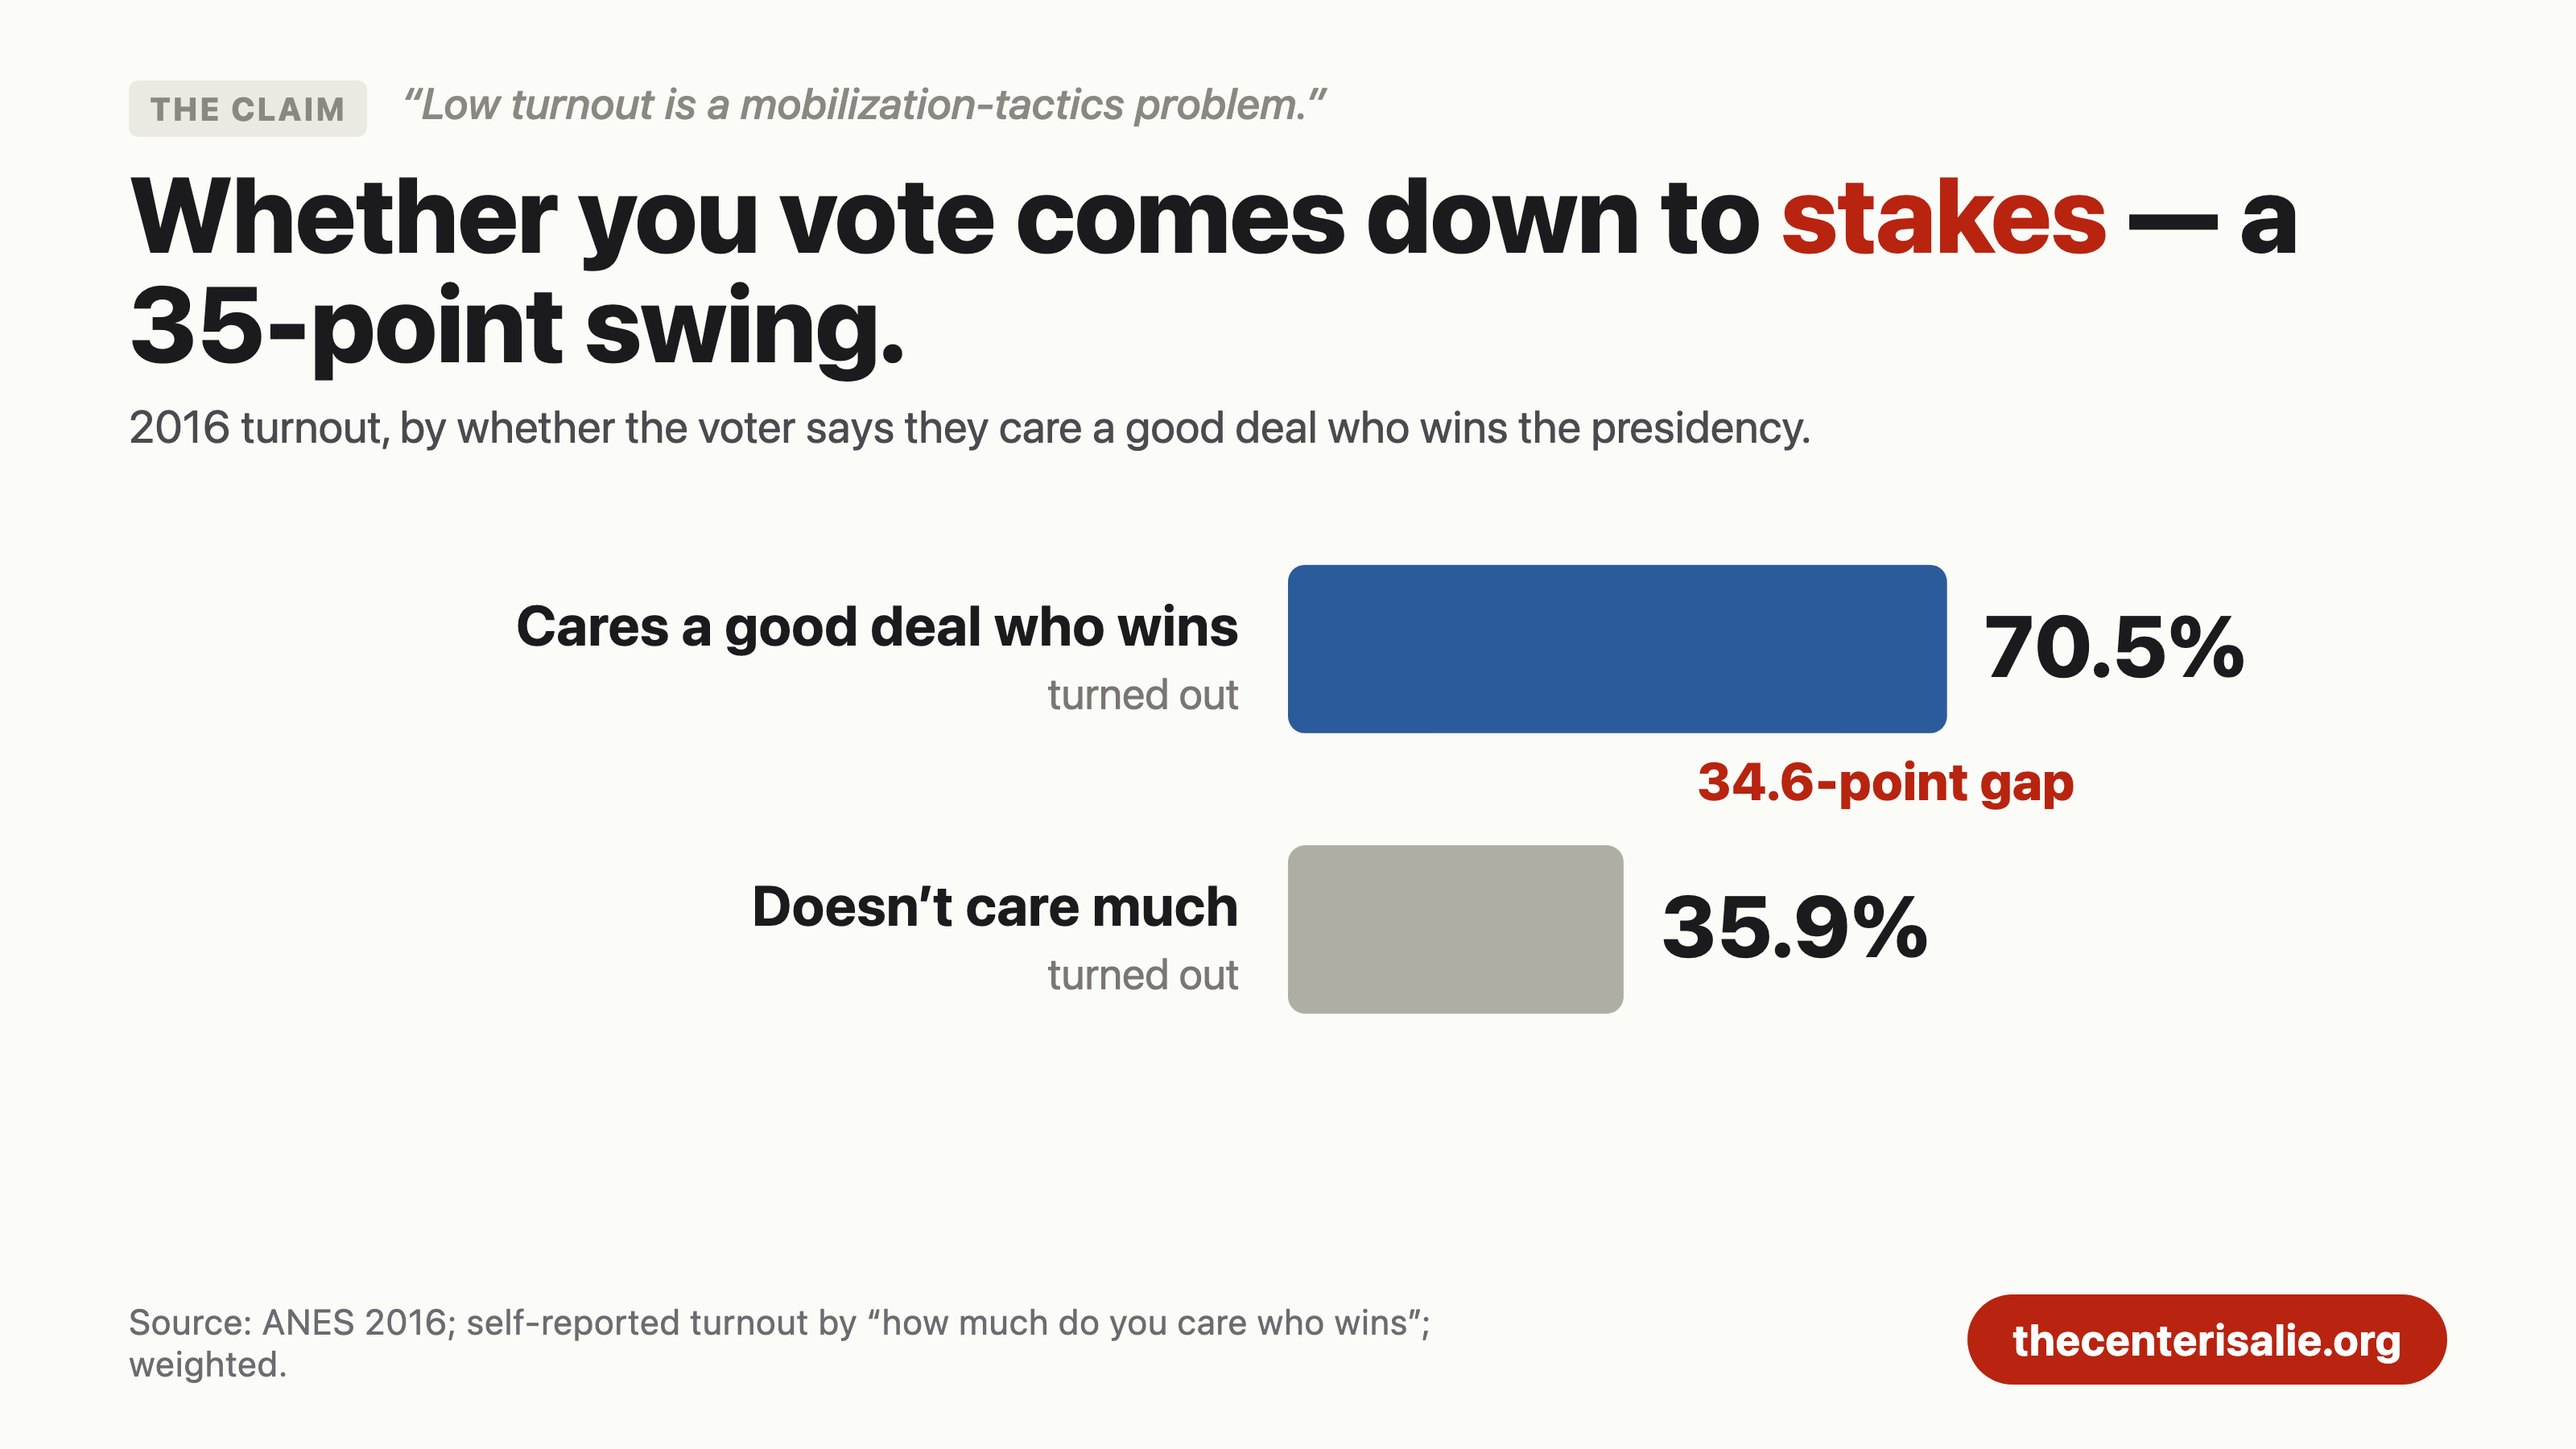
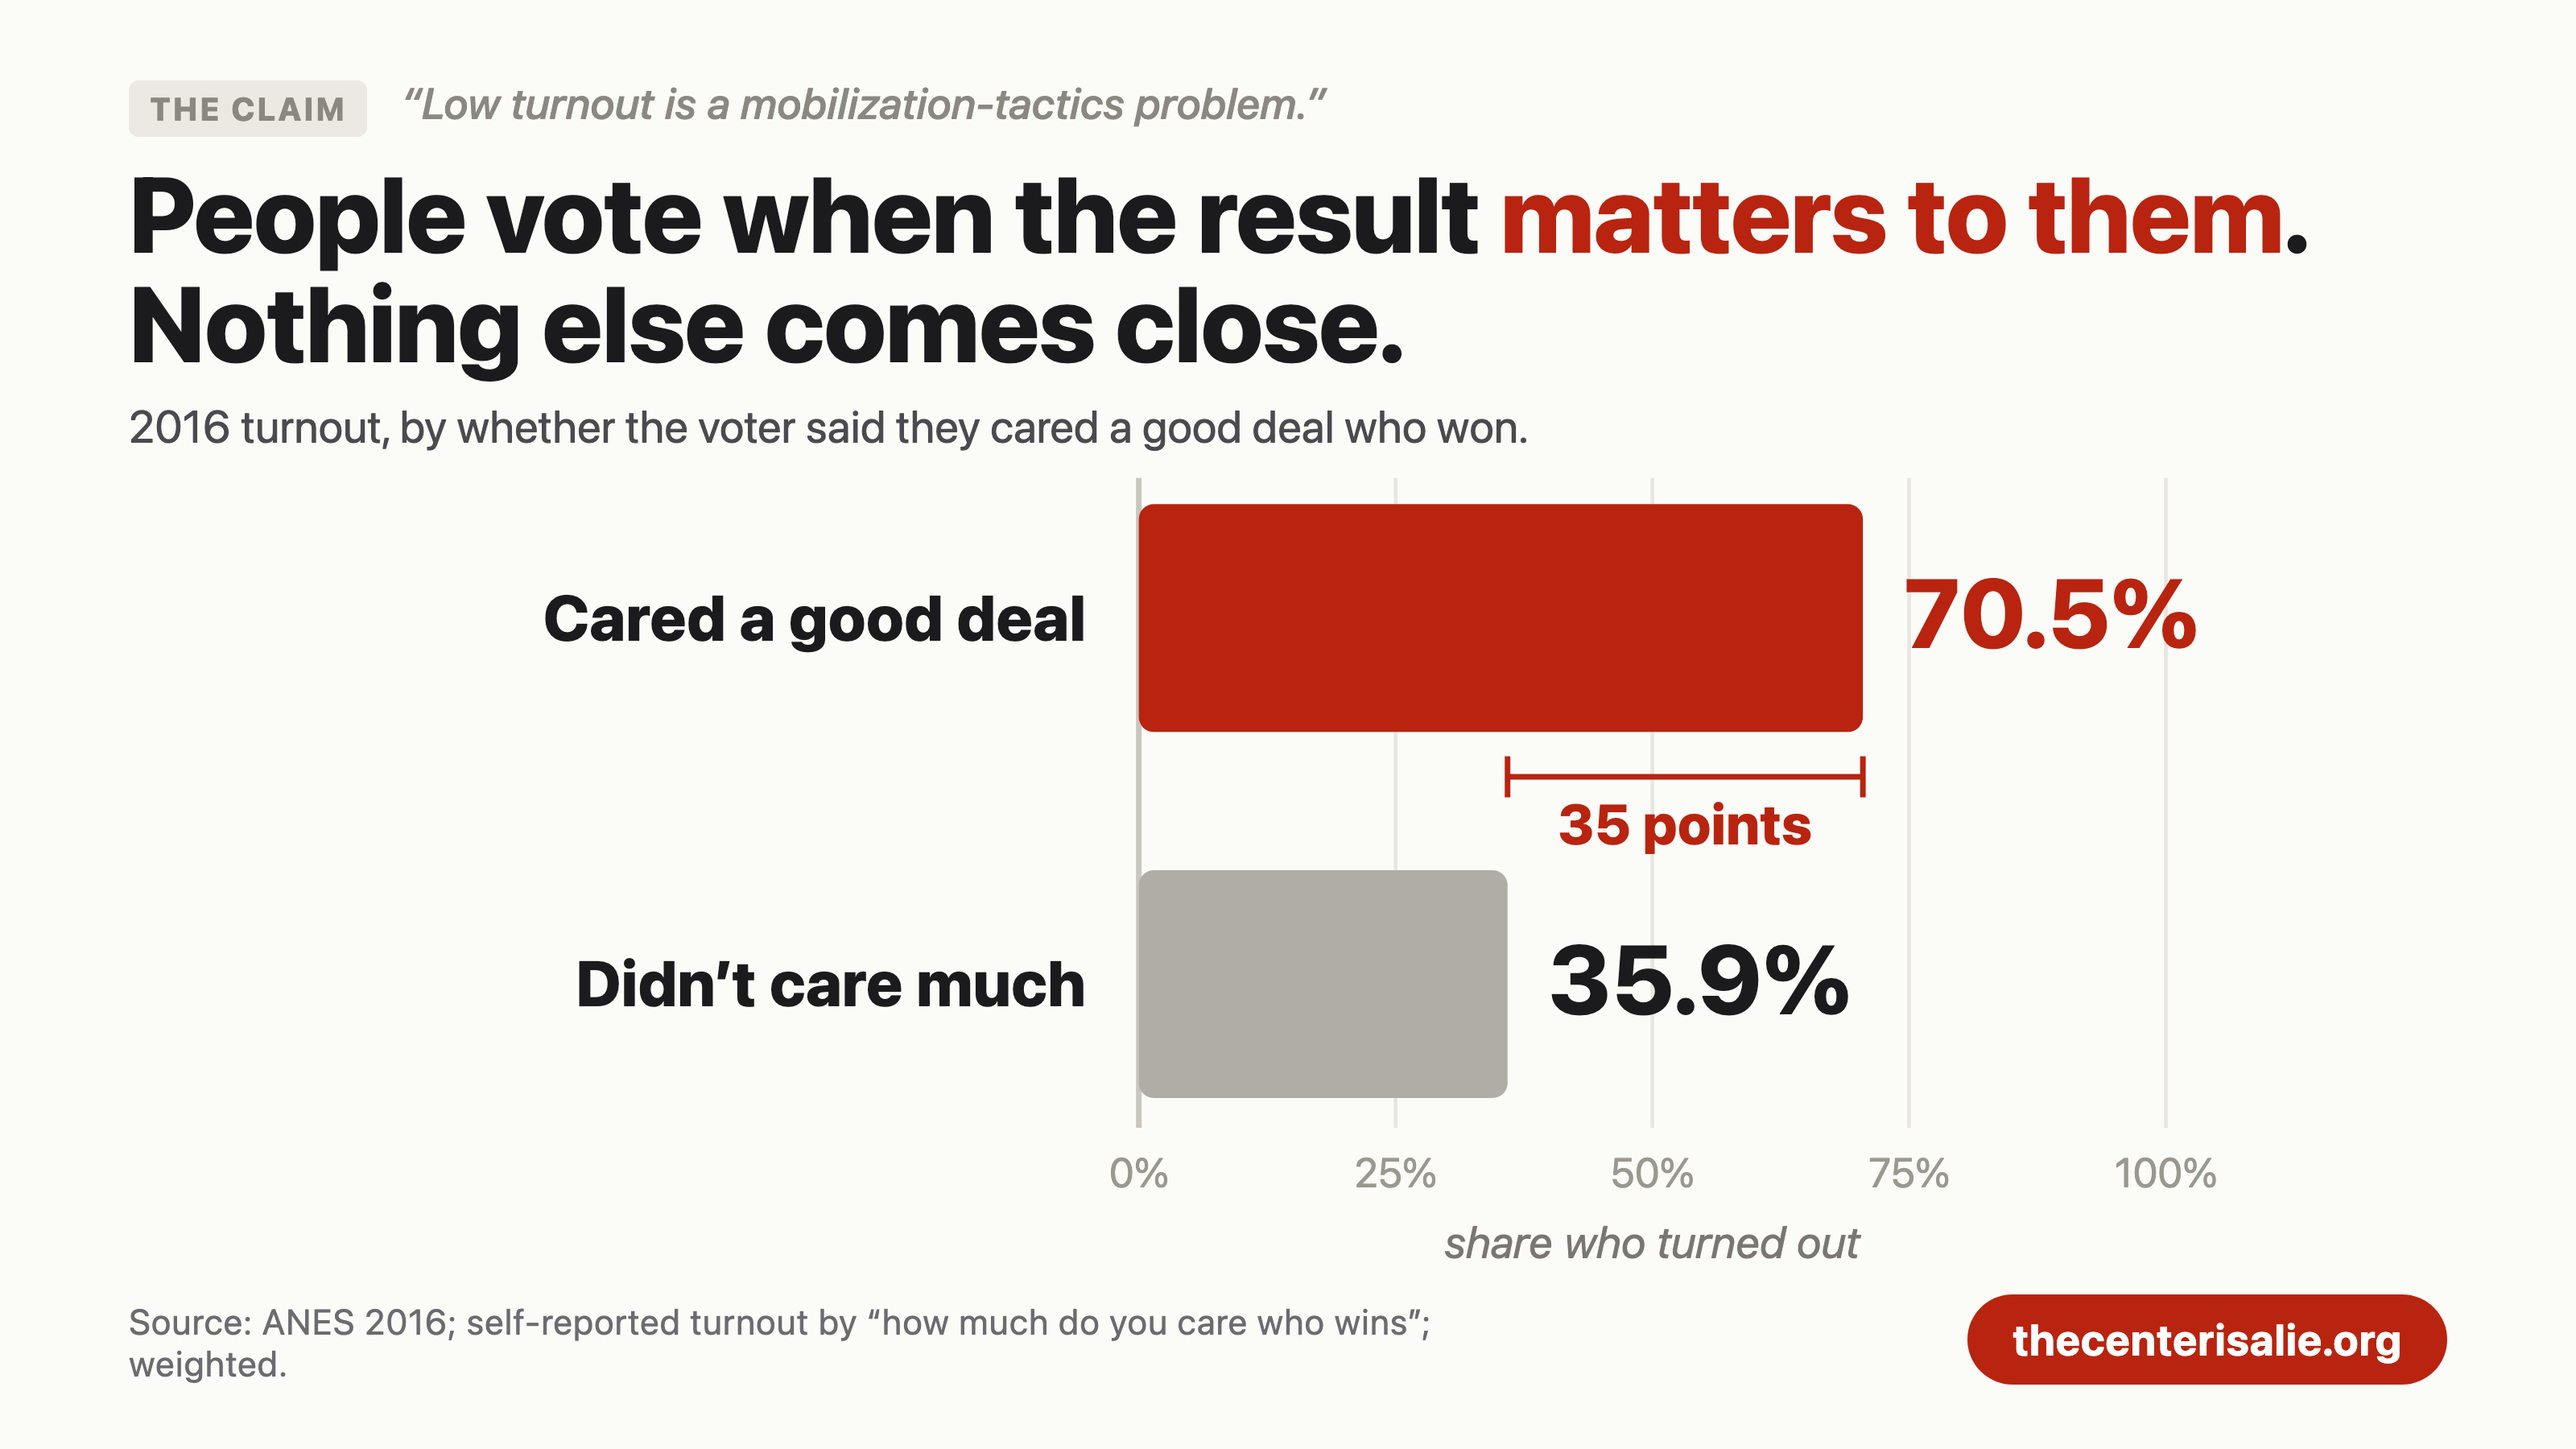
fix(og): rebuild care to fill frame, put red on the emphasized bar
Adds a percent axis and a gap bracket; blunter title.

diff --git a/web/og-cards/chart-care.html b/web/og-cards/chart-care.html
@@ -3,11 +3,11 @@
 <body>
   <div class="chartcard">
     <div class="cc-claim"><span class="tag">The claim</span> &ldquo;Low turnout is a mobilization-tactics problem.&rdquo;</div>
-    <div class="cc-title">Whether you vote comes down to <span class="hl">stakes</span> &mdash; a 35-point swing.</div>
-    <div class="cc-sub">2016 turnout, by whether the voter says they care a good deal who wins the presidency.</div>
+    <div class="cc-title">People vote when the result <span class="hl">matters to them</span>. Nothing else comes close.</div>
+    <div class="cc-sub">2016 turnout, by whether the voter said they cared a good deal who won.</div>
 
-    <div class="cc-chart"><svg id="care" viewBox="0 0 1240 380" role="img"
-      aria-label="Turnout: cares a good deal 70.5%, doesn't care much 35.9%"></svg></div>
+    <div class="cc-chart"><svg id="care" viewBox="0 0 1240 449" role="img"
+      aria-label="Turnout in 2016: 70.5% among voters who cared a good deal who won, 35.9% among those who did not"></svg></div>
 
     <div class="cc-foot">
       <div class="cc-source">Source: ANES 2016; self-reported turnout by &ldquo;how much do you care who wins&rdquo;; weighted.</div>
@@ -19,20 +19,36 @@
     const NS = 'http://www.w3.org/2000/svg';
     const svg = document.getElementById('care');
     const el = (t, a) => { const n = document.createElementNS(NS, t); for (const k in a) n.setAttribute(k, a[k]); return n; };
+    const txt = (a, s) => { const t = el('text', a); t.textContent = s; svg.appendChild(t); return t; };
+
     const rows = [
-      { name: 'Cares a good deal who wins', v: 70.5, hot: true },
-      { name: 'Doesn’t care much', v: 35.9 },
+      { name: 'Cared a good deal', v: 70.5, col: '#b8240f' },
+      { name: 'Didn’t care much', v: 35.9, col: '#b0ada4' },
     ];
-    const X0 = 620, X1 = 1120, VMAX = 100, sc = (X1 - X0) / VMAX;
-    const barH = 90, step = 150, y0 = 24;
+    const X0 = 540, X1 = 1090, VMAX = 100, sc = (X1 - X0) / VMAX;
+    const barH = 122, step = 196, y0 = 26;
+    const axisBot = y0 + step + barH + 16;
+
+    for (let v = 0; v <= 100; v += 25) {
+      const gx = X0 + v * sc;
+      svg.appendChild(el('line', { x1: gx, y1: y0 - 14, x2: gx, y2: axisBot, stroke: v === 0 ? '#c9c6bd' : '#e8e6e0', 'stroke-width': v === 0 ? 3 : 2 }));
+      txt({ x: gx, y: axisBot + 32, 'text-anchor': 'middle', fill: '#9a988f', 'font-size': 22 }, v + '%');
+    }
+    txt({ x: (X0 + X1) / 2, y: axisBot + 70, 'text-anchor': 'middle', fill: '#7a7772', 'font-size': 24, 'font-style': 'italic' }, 'share who turned out');
+
     rows.forEach((r, i) => {
       const yTop = y0 + i * step, mid = yTop + barH / 2;
-      const l1 = el('text', { x: X0 - 26, y: mid - 2, 'text-anchor': 'end', fill: '#1b1b1d', 'font-size': 30, 'font-weight': 700 }); l1.textContent = r.name; svg.appendChild(l1);
-      const l2 = el('text', { x: X0 - 26, y: mid + 32, 'text-anchor': 'end', fill: '#7a7772', 'font-size': 23 }); l2.textContent = 'turned out'; svg.appendChild(l2);
+      txt({ x: X0 - 28, y: mid + 12, 'text-anchor': 'end', fill: '#1b1b1d', 'font-size': 34, 'font-weight': 800 }, r.name);
       const w = r.v * sc;
-      svg.appendChild(el('rect', { x: X0, y: yTop, width: w, height: barH, rx: 9, fill: r.hot ? '#2c5b9c' : '#b0ada4' }));
-      const val = el('text', { x: X0 + w + 20, y: mid + 15, fill: '#1b1b1d', 'font-size': 46, 'font-weight': 800 }); val.textContent = r.v.toFixed(1) + '%'; svg.appendChild(val);
+      svg.appendChild(el('rect', { x: X0, y: yTop, width: w, height: barH, rx: 8, fill: r.col }));
+      txt({ x: X0 + w + 22, y: mid + 16, fill: r.col === '#b8240f' ? '#b8240f' : '#1b1b1d', 'font-size': 52, 'font-weight': 800 }, r.v.toFixed(1) + '%');
     });
-    const g = el('text', { x: X0 + 320, y: y0 + step - 24, 'text-anchor': 'middle', fill: '#b8240f', 'font-size': 28, 'font-weight': 800 }); g.textContent = '34.6-point gap'; svg.appendChild(g);
+
+    // gap bracket between the two bars
+    const gx = X0 + 35.9 * sc, gx2 = X0 + 70.5 * sc;
+    const gy = y0 + barH + 24;
+    svg.appendChild(el('line', { x1: gx, y1: gy, x2: gx2, y2: gy, stroke: '#b8240f', 'stroke-width': 3 }));
+    [gx, gx2].forEach((x) => svg.appendChild(el('line', { x1: x, y1: gy - 11, x2: x, y2: gy + 11, stroke: '#b8240f', 'stroke-width': 3 })));
+    txt({ x: (gx + gx2) / 2, y: gy + 36, 'text-anchor': 'middle', fill: '#b8240f', 'font-size': 30, 'font-weight': 800 }, '35 points');
   </script>
 </body></html>
